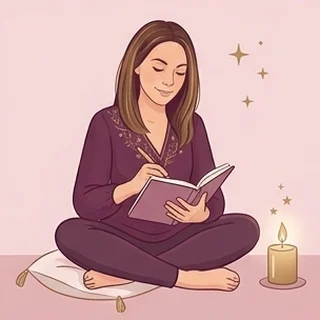
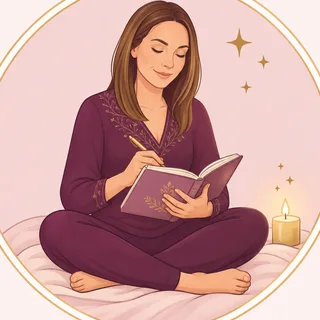
Nouvelles illustrations de Laura (guides) pour Le Cercle et le site (#575)
Claude-Session: https://claude.ai/code/session_013ZTKg9MAWnXCkEjcoBkvNJ

diff --git a/assets/suivi/2027-08.js b/assets/suivi/2027-08.js
@@ -25,14 +25,14 @@ window.GENESOLIA_CARNET = {
     citation: 'assets/formation/montagne.jpg',
     meditation: 'assets/formation/montagne.jpg',
     pages: {
-      saison: 'assets/guide/guide-arbre.webp',
+      saison: 'assets/guide/guide-saisons.webp',
       theme: 'assets/guide/guide-transmission.webp',
       voir: 'assets/guide/guide-coffret.webp',
       source: 'assets/guide/guide-repete.webp',
-      liberer: 'assets/guide/guide-pause.webp',
-      remplacer: 'assets/guide/guide-spirale-or.webp',
+      liberer: 'assets/guide/guide-liberer.webp',
+      remplacer: 'assets/guide/guide-graine.webp',
       meditation: 'assets/guide/guide-reves.webp',
-      bilan: 'assets/guide/guide-livre-lumineux.webp'
+      bilan: 'assets/guide/guide-recolte.webp'
     },
     cartes: {
       theme: ['assets/cartes/ils-ont-traverse-mini.jpg', 'Ils ont traversé tant de choses pour que je puisse vivre la mienne.']

diff --git a/assets/suivi/2027-07.js b/assets/suivi/2027-07.js
@@ -25,14 +25,14 @@ window.GENESOLIA_CARNET = {
     citation: 'assets/formation/montagne.jpg',
     meditation: 'assets/formation/spirale.jpg',
     pages: {
-      saison: 'assets/guide/guide-arbre.webp',
+      saison: 'assets/guide/guide-saisons.webp',
       theme: 'assets/guide/guide-coffret.webp',
       voir: 'assets/guide/guide-repete.webp',
       source: 'assets/guide/guide-transmission.webp',
-      liberer: 'assets/guide/guide-pause.webp',
-      remplacer: 'assets/guide/guide-cadeau.webp',
+      liberer: 'assets/guide/guide-liberer.webp',
+      remplacer: 'assets/guide/guide-graine.webp',
       meditation: 'assets/guide/guide-reves.webp',
-      bilan: 'assets/guide/guide-livre-lumineux.webp'
+      bilan: 'assets/guide/guide-recolte.webp'
     },
     cartes: {
       theme: ['assets/cartes/peurs-rendre-mini.jpg', 'Certaines peurs ne m’appartiennent pas. Je peux les rendre, avec douceur.']

diff --git a/assets/suivi/2026-11.js b/assets/suivi/2026-11.js
@@ -25,14 +25,14 @@ window.GENESOLIA_CARNET = {
     citation: 'assets/formation/montagne.jpg',
     meditation: 'assets/formation/spirale.jpg',
     pages: {
-      saison: 'assets/guide/guide-arbre.webp',
+      saison: 'assets/guide/guide-saisons.webp',
       theme: 'assets/guide/guide-transmission.webp',
       voir: 'assets/guide/guide-repete.webp',
       source: 'assets/guide/guide-arbre.webp',
-      liberer: 'assets/guide/guide-pause.webp',
-      remplacer: 'assets/guide/guide-spirale-or.webp',
+      liberer: 'assets/guide/guide-liberer.webp',
+      remplacer: 'assets/guide/guide-graine.webp',
       meditation: 'assets/guide/guide-reves.webp',
-      bilan: 'assets/guide/guide-livre-lumineux.webp'
+      bilan: 'assets/guide/guide-recolte.webp'
     },
     cartes: {
       theme: ['assets/cartes/ils-ont-traverse-mini.jpg', 'Ils ont traversé tant de choses pour que je puisse vivre la mienne.']

diff --git a/assets/suivi/2027-09.js b/assets/suivi/2027-09.js
@@ -25,14 +25,14 @@ window.GENESOLIA_CARNET = {
     citation: 'assets/formation/montagne.jpg',
     meditation: 'assets/formation/spirale.jpg',
     pages: {
-      saison: 'assets/guide/guide-livre-pupitre.webp',
+      saison: 'assets/guide/guide-saisons.webp',
       theme: 'assets/guide/guide-transmission.webp',
       voir: 'assets/guide/guide-arbre.webp',
       source: 'assets/guide/guide-repete.webp',
-      liberer: 'assets/guide/guide-pause.webp',
-      remplacer: 'assets/guide/guide-spirale-or.webp',
+      liberer: 'assets/guide/guide-liberer.webp',
+      remplacer: 'assets/guide/guide-graine.webp',
       meditation: 'assets/guide/guide-reves.webp',
-      bilan: 'assets/guide/guide-livre-lumineux.webp'
+      bilan: 'assets/guide/guide-recolte.webp'
     },
     cartes: {
       theme: ['assets/cartes/aimer-et-choisir-mini.jpg', 'On peut aimer sa famille et choisir autre chose.']

diff --git a/assets/suivi/2027-06.js b/assets/suivi/2027-06.js
@@ -25,14 +25,14 @@ window.GENESOLIA_CARNET = {
     citation: 'assets/formation/montagne.jpg',
     meditation: 'assets/formation/montagne.jpg',
     pages: {
-      saison: 'assets/guide/guide-etoiles.webp',
+      saison: 'assets/guide/guide-saisons.webp',
       theme: 'assets/guide/guide-arbre.webp',
       voir: 'assets/guide/guide-repete.webp',
       source: 'assets/guide/guide-transmission.webp',
-      liberer: 'assets/guide/guide-pause.webp',
-      remplacer: 'assets/guide/guide-spirale-or.webp',
+      liberer: 'assets/guide/guide-liberer.webp',
+      remplacer: 'assets/guide/guide-graine.webp',
       meditation: 'assets/guide/guide-reves.webp',
-      bilan: 'assets/guide/guide-livre-lumineux.webp'
+      bilan: 'assets/guide/guide-recolte.webp'
     },
     cartes: {
       theme: ['assets/cartes/deux-parents-mini.jpg', 'J’ai le droit d’aimer mes deux parents sans choisir.']

diff --git a/assets/suivi/2026-10.js b/assets/suivi/2026-10.js
@@ -25,14 +25,14 @@ window.GENESOLIA_CARNET = {
     citation: 'assets/formation/montagne.jpg',
     meditation: 'assets/formation/spirale.jpg',
     pages: {
-      saison: 'assets/guide/guide-arbre.webp',
+      saison: 'assets/guide/guide-saisons.webp',
       theme: 'assets/guide/guide-boucle.webp',
       voir: 'assets/guide/guide-repete.webp',
       source: 'assets/guide/guide-transmission.webp',
-      liberer: 'assets/guide/guide-pause.webp',
-      remplacer: 'assets/guide/guide-spirale-or.webp',
+      liberer: 'assets/guide/guide-liberer.webp',
+      remplacer: 'assets/guide/guide-graine.webp',
       meditation: 'assets/guide/guide-reves.webp',
-      bilan: 'assets/guide/guide-livre-lumineux.webp'
+      bilan: 'assets/guide/guide-recolte.webp'
     },
     cartes: {
       theme: ['assets/cartes/boucle-spirale-mini.jpg', 'La boucle devient spirale le jour où je la regarde.']

diff --git a/assets/suivi/2026-12.js b/assets/suivi/2026-12.js
@@ -25,14 +25,14 @@ window.GENESOLIA_CARNET = {
     citation: 'assets/formation/montagne.jpg',
     meditation: 'assets/formation/spirale.jpg',
     pages: {
-      saison: 'assets/guide/guide-etoiles.webp',
+      saison: 'assets/guide/guide-saisons.webp',
       theme: 'assets/guide/guide-cadeau.webp',
       voir: 'assets/guide/guide-repete.webp',
       source: 'assets/guide/guide-transmission.webp',
-      liberer: 'assets/guide/guide-pause.webp',
-      remplacer: 'assets/guide/guide-spirale-or.webp',
+      liberer: 'assets/guide/guide-liberer.webp',
+      remplacer: 'assets/guide/guide-graine.webp',
       meditation: 'assets/guide/guide-reves.webp',
-      bilan: 'assets/guide/guide-livre-lumineux.webp'
+      bilan: 'assets/guide/guide-recolte.webp'
     },
     cartes: {
       theme: ['assets/cartes/aimer-et-choisir-mini.jpg', 'On peut aimer sa famille et choisir autre chose.']

diff --git a/assets/suivi/2027-01.js b/assets/suivi/2027-01.js
@@ -25,14 +25,14 @@ window.GENESOLIA_CARNET = {
     citation: 'assets/formation/montagne.jpg',
     meditation: 'assets/formation/spirale.jpg',
     pages: {
-      saison: 'assets/guide/guide-etoiles.webp',
+      saison: 'assets/guide/guide-saisons.webp',
       theme: 'assets/guide/guide-transmission.webp',
       voir: 'assets/guide/guide-repete.webp',
       source: 'assets/guide/guide-arbre.webp',
-      liberer: 'assets/guide/guide-pause.webp',
-      remplacer: 'assets/guide/guide-spirale-or.webp',
+      liberer: 'assets/guide/guide-liberer.webp',
+      remplacer: 'assets/guide/guide-graine.webp',
       meditation: 'assets/guide/guide-reves.webp',
-      bilan: 'assets/guide/guide-livre-lumineux.webp'
+      bilan: 'assets/guide/guide-recolte.webp'
     },
     cartes: {
       theme: ['assets/cartes/apprendre-mini.jpg', 'Tout ce qui revient a quelque chose à m’apprendre.']

diff --git a/assets/suivi/2027-10.js b/assets/suivi/2027-10.js
@@ -26,14 +26,14 @@ window.GENESOLIA_CARNET = {
     citation: 'assets/formation/montagne.jpg',
     meditation: 'assets/formation/spirale.jpg',
     pages: {
-      saison: 'assets/guide/guide-arbre.webp',
+      saison: 'assets/guide/guide-saisons.webp',
       theme: 'assets/guide/guide-spirale-or.webp',
       voir: 'assets/guide/guide-nombres.webp',
       source: 'assets/guide/guide-transmission.webp',
-      liberer: 'assets/guide/guide-pause.webp',
-      remplacer: 'assets/guide/guide-spirale-douce.webp',
+      liberer: 'assets/guide/guide-liberer.webp',
+      remplacer: 'assets/guide/guide-graine.webp',
       meditation: 'assets/guide/guide-reves.webp',
-      bilan: 'assets/guide/guide-livre-lumineux.webp'
+      bilan: 'assets/guide/guide-recolte.webp'
     },
     cartes: {
       theme: ['assets/cartes/aujourdhui-spirale-mini.jpg', 'Aujourd’hui, je choisis la spirale.']

diff --git a/assets/suivi/2027-03.js b/assets/suivi/2027-03.js
@@ -25,14 +25,14 @@ window.GENESOLIA_CARNET = {
     citation: 'assets/formation/montagne.jpg',
     meditation: 'assets/formation/spirale.jpg',
     pages: {
-      saison: 'assets/guide/guide-arbre.webp',
+      saison: 'assets/guide/guide-saisons.webp',
       theme: 'assets/guide/guide-boucle.webp',
       voir: 'assets/guide/guide-repete.webp',
       source: 'assets/guide/guide-transmission.webp',
-      liberer: 'assets/guide/guide-pause.webp',
-      remplacer: 'assets/guide/guide-spirale-or.webp',
+      liberer: 'assets/guide/guide-liberer.webp',
+      remplacer: 'assets/guide/guide-graine.webp',
       meditation: 'assets/guide/guide-reves.webp',
-      bilan: 'assets/guide/guide-livre-lumineux.webp'
+      bilan: 'assets/guide/guide-recolte.webp'
     },
     cartes: {
       theme: ['assets/cartes/faire-semblant-mini.jpg', "Toutes mes émotions ont le droit d’exister."]

diff --git a/assets/suivi/2027-02.js b/assets/suivi/2027-02.js
@@ -25,14 +25,14 @@ window.GENESOLIA_CARNET = {
     citation: 'assets/formation/montagne.jpg',
     meditation: 'assets/formation/spirale.jpg',
     pages: {
-      saison: 'assets/guide/guide-etoiles.webp',
+      saison: 'assets/guide/guide-saisons.webp',
       theme: 'assets/guide/guide-boucle.webp',
       voir: 'assets/guide/guide-repete.webp',
       source: 'assets/guide/guide-arbre.webp',
-      liberer: 'assets/guide/guide-pause.webp',
-      remplacer: 'assets/guide/guide-spirale-or.webp',
+      liberer: 'assets/guide/guide-liberer.webp',
+      remplacer: 'assets/guide/guide-graine.webp',
       meditation: 'assets/guide/guide-reves.webp',
-      bilan: 'assets/guide/guide-livre-lumineux.webp'
+      bilan: 'assets/guide/guide-recolte.webp'
     },
     cartes: {
       theme: ['assets/cartes/aimer-et-choisir-mini.jpg', "On peut aimer sa famille et choisir autre chose."]

diff --git a/assets/suivi/2027-05.js b/assets/suivi/2027-05.js
@@ -25,14 +25,14 @@ window.GENESOLIA_CARNET = {
     citation: 'assets/formation/montagne.jpg',
     meditation: 'assets/formation/spirale.jpg',
     pages: {
-      saison: 'assets/guide/guide-arbre.webp',
+      saison: 'assets/guide/guide-saisons.webp',
       theme: 'assets/guide/guide-transmission.webp',
       voir: 'assets/guide/guide-repete.webp',
       source: 'assets/guide/guide-coffret.webp',
-      liberer: 'assets/guide/guide-pause.webp',
-      remplacer: 'assets/guide/guide-spirale-or.webp',
+      liberer: 'assets/guide/guide-liberer.webp',
+      remplacer: 'assets/guide/guide-graine.webp',
       meditation: 'assets/guide/guide-reves.webp',
-      bilan: 'assets/guide/guide-livre-lumineux.webp'
+      bilan: 'assets/guide/guide-recolte.webp'
     },
     cartes: {
       theme: ['assets/cartes/ma-mere-mini.jpg', 'Je peux ressembler à ma mère, et faire autrement.']
